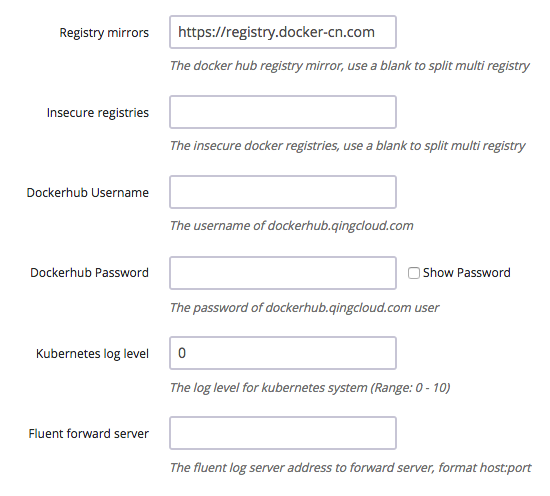
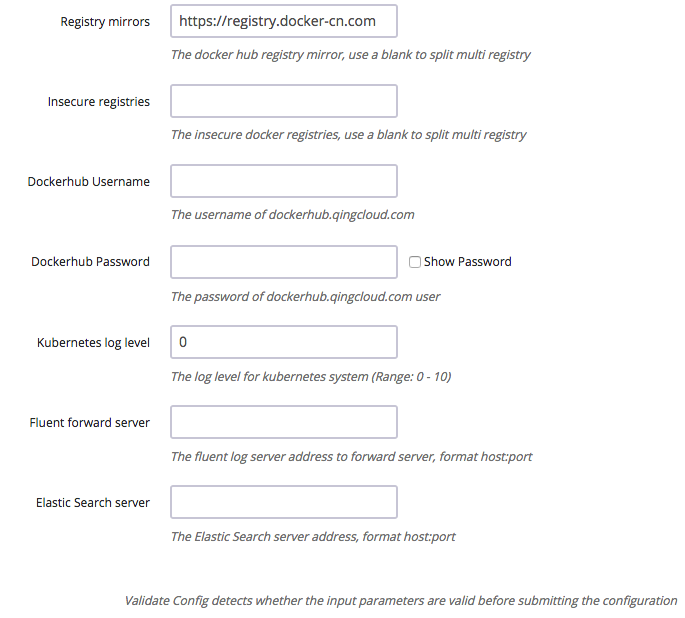
new feature of k8s app

diff --git a/docs/kubernetes/README.md b/docs/kubernetes/README.md
@@ -21,30 +21,37 @@ Kubernetes 是一个开源的、用于管理云平台中多个主机上的容器
 
 ### 第一步：选择基本配置
 
-在创建的对话框中，您需要填写名称 (可选)，选择 Kubernetes 版本号以及选择计费方式
-![](screenshot/基本配置.png)
-请根据需要选择 Kubernetes 主节点，节点和日志节点的 CPU、节点配置和数量、下图以主节点为例。所有节点的主机资源类型请保持一致，要么都是性能型，要么都是超高性能型
-![](screenshot/主节点配置.png)
-选择集群主机所在的私网，私网需要在创建集群前准备好。
-![](screenshot/网络配置.png)
-填写 Kubernetes 应用所需参数
-![](screenshot/服务环境配置.png)
+在创建的对话框中，您需要填写名称 (可选)，选择 Kubernetes 版本号以及选择计费方式。  
+![](screenshot/基本配置.png)  
+请根据需要选择 Kubernetes 主节点，节点和日志节点的 CPU、节点配置和数量、下图以主节点为例。所有节点的主机资源类型请保持一致，要么都是性能型，要么都是超高性能型。  
+![](screenshot/主节点配置.png)  
+如果用户选择不部署日志节点（节点个数为0），则需在依赖服务中选择预先部署好的 ELK 集群或者环境变量中指定自建的 Elastic Search 服务器的 IP 地址和端口。  
+![](screenshot/日志节点配置.png)  
+选择集群主机所在的私网，私网需要在创建集群前准备好。  
+![](screenshot/网络配置.png)  
+如果用户不想使用 Kubernetes App 的日志节点和内置的日志管理工具，可以预先部署 [ELK App on QingCloud](https://appcenter.qingcloud.com/apps/app-p6au3oyq)，在此处选择其为Kubernetes 集群的依赖服务。  
+<font color=red>**注意**</font>：日志节点数必须为0，ELK 集群必须和 Kubernetes 集群在同一 VPC 下。  
+![](screenshot/依赖服务配置.png)  
 
-* 为了更好地与青云基础设施集成，Kubernetes 应用需要使用您的 API 秘钥来调用 QingCloud IaaS API。请在控制台生成[秘钥](https://console.qingcloud.com/access_keys/)。
+填写 Kubernetes 应用所需参数：  
+![](screenshot/服务环境配置.png)  
 
-* Kubernetes 应用使用青云提供的 SDN2.0，创建的 Pod 都会绑定一个网卡，分配一个私网地址。这里可以设置所使用的私网 ID，私网需要预先准备好，如(vxnet-xxxxxxx)。建议给 Pod 设置专用的私网，每个私网可以容纳200多个 IP，如果您需要的容器数量较多，请填写多个，之间用空格切分。<font color=red>**Pod 的 vxnet 请不要复用 Kubernetes 所在的 vxnet，且应和 Kubernetes 集群所在的私网在同一 VPC 中**</font>。
+* 为了更好地与青云基础设施集成，Kubernetes 应用需要使用您的 API 秘钥来调用 QingCloud IaaS API。请在控制台生成[秘钥](https://console.qingcloud.com/access_keys/)。  
 
-* Kubernetes 应用内置了自定义日志监控功能，用户可以查询到所有 Kubernetes 管理的资源的日志。为了节省空间，日志会定期销毁。这里可以设置保存日志的天数
+* Kubernetes 应用使用青云提供的 SDN2.0，创建的 Pod 都会绑定一个网卡，分配一个私网地址。这里可以设置所使用的私网 ID，私网需要预先准备好，如(vxnet-xxxxxxx)。建议给 Pod 设置专用的私网，每个私网可以容纳200多个 IP，如果您需要的容器数量较多，请填写多个，之间用空格切分。<font color=red>**Pod 的 vxnet 请不要复用 Kubernetes 所在的 vxnet，且应和 Kubernetes 集群所在的私网在同一 VPC 中**</font>。  
 
-* 这里可以设置 Kubernetes API的域名，用于生成api server使用的ca证书
+* Kubernetes 应用内置了自定义日志监控功能，用户可以查询到所有 Kubernetes 管理的资源的日志。为了节省空间，日志会定期销毁。这里可以设置保存日志的天数。  
 
-![](screenshot/服务环境配置2.png)
+* 这里可以设置 Kubernetes API的域名，用于生成api server使用的ca证书。  
 
-* Registry mirrors Docker hub 官方镜像仓库的 镜像 地址，默认是 docker hub 官方提供的中国区的镜像站点。镜像仓库包含所有官方镜像仓库的所有镜像。
-* Insecure registries Kubernetes 应用支持使用私有容器仓库，方便使用内部容器仓库的用户，青云提供了[harbor应用](https://appcenter.qingcloud.com/apps/app-2mhyb1ui)可以方便用户部署私有容器仓库。如果私有容器仓库没有支持 https，需要将 registry 的 ip 地址填写在这里（如果端口是非 80 端口，也需要填写，格式 ip:port)。
-* Kubernetes 需要从 dockerhub.qingcloud.com 下载镜像，dockerhub.qingcloud.com 是青云提供给开发者的仓库服务，不包含官方镜像，这里需要用户填写 docherhub.qingcloud.com 用户名和密码用来下载镜像包含青云定制的 Kubernetes 服务镜像。系统已经内置了 guest 账号，可以拉取 dockerhub.qingcloud.com 上的公开仓库。
-* 设置 Kubernetes 系统的日志级别，之后可以通过 kibana 查看。
-* 如果用户需要自己对 Kubernetes 的日志或者容器输出的日志进行自定义处理，可以自己搭建 Fluent 或者 Fluent-bit 服务，将服务地址填写到这里，系统会自动将日志转发到填写的日志服务地址上。
+![](screenshot/服务环境配置2.png)  
+
+* Registry mirrors Docker hub 官方镜像仓库的 镜像 地址，默认是 docker hub 官方提供的中国区的镜像站点。镜像仓库包含所有官方镜像仓库的所有镜像。  
+* Insecure registries Kubernetes 应用支持使用私有容器仓库，方便使用内部容器仓库的用户，青云提供了[harbor应用](https://appcenter.qingcloud.com/apps/app-2mhyb1ui)可以方便用户部署私有容器仓库。如果私有容器仓库没有支持 https，需要将 registry 的 ip 地址填写在这里（如果端口是非 80 端口，也需要填写，格式 ip:port)。  
+* Kubernetes 需要从 dockerhub.qingcloud.com 下载镜像，dockerhub.qingcloud.com 是青云提供给开发者的仓库服务，不包含官方镜像，这里需要用户填写 docherhub.qingcloud.com 用户名和密码用来下载镜像包含青云定制的 Kubernetes 服务镜像。系统已经内置了 guest 账号，可以拉取 dockerhub.qingcloud.com 上的公开仓库。  
+* 设置 Kubernetes 系统的日志级别，之后可以通过 kibana 查看。  
+* 如果用户需要自己对 Kubernetes 的日志或者容器输出的日志进行自定义处理，可以自己搭建 Fluent 或者 Fluent-bit 服务，将服务地址填写到这里，系统会自动将日志转发到填写的日志服务地址上。  
+* 如果用户既不想使用 Kubernetes App 的日志节点和内置的日志管理工具，也不想使用青云提供的 ELK App作为依赖服务，而是用自己搭建的 ELK 或者 EFK 服务，可以通过指定 Elastic Search 服务器的 IP 地址和端口，这里要确保 Kubernetes 集群内的节点能够访问这个地址且端口有效，格式 ip:port。  
 
 ### 第二步：创建成功
 
@@ -55,8 +62,8 @@ Kubernetes 是一个开源的、用于管理云平台中多个主机上的容器
 
 ### 使用客户端节点
 
-Kubernetes 集群创建完成之后可以进行测试。找到客户端节点，点击 vnc 图标。
-![](screenshot/跳板机.png)
+Kubernetes 集群创建完成之后可以进行测试。找到客户端节点，点击 vnc 图标。  
+![](screenshot/跳板机.png)  
 使用 root/k8s 登录。执行
 
 ```shell
@@ -89,29 +96,29 @@ curl elasticsearch-logging.kube-system:9200/_cluster/health
 
 ### 通过浏览器查看集群状态
 
-Kubernetes 集群应用集成了官方的监控组件 heapster 和 dashboard。并提供了一个  elasticsearch kibana集群。方便用户查看监控和日志信息。
+Kubernetes 集群应用集成了官方的监控组件 heapster 和 dashboard。并提供了一个  elasticsearch kibana集群。方便用户查看监控和日志信息。  
 
-登录客户端节点后执行
+登录客户端节点后执行  
 
 ```shell
 nohup kubectl proxy --address='0.0.0.0' --accept-hosts='.*' --disable-filter=true --accept-paths="^.*" &
 ```
 
-连接客户端节点所在 vpc 的VPN后，使用浏览器访问 http://客户端节点ip:8001/ui，会自动跳转到dashboard应用。
-例如：
+连接客户端节点所在 vpc 的VPN后，使用浏览器访问 http://客户端节点ip:8001/ui，会自动跳转到dashboard应用。  
+例如：  
 ![](screenshot/dashboard.png)
 
-同样，访问http://客户端节点ip:8001/api/v1/proxy/namespaces/kube-system/services/kibana-logging/ 会打开日志服务的kibana
-如图
+同样，访问http://客户端节点ip:8001/api/v1/proxy/namespaces/kube-system/services/kibana-logging/ 会打开日志服务的kibana  
+如图  
 ![](screenshot/kibana.png)
 
-用户可以执行以下命令获得其他服务的proxy地址
+用户可以执行以下命令获得其他服务的proxy地址  
 
 ```shell
 kubectl cluster-info
 ```
 
-用户需要导入以下index来获取所需数据。数据都是以时间为基准，需要输入index名称的匹配模式和数据的时间戳．输入index匹配模式后，在时间戳下拉框中选择对应的字段然后点击创建即可．
+用户需要导入以下index来获取所需数据。数据都是以时间为基准，需要输入index名称的匹配模式和数据的时间戳．输入index匹配模式后，在时间戳下拉框中选择对应的字段然后点击创建即可。  
 
 | index                 | timestamp                  |
 | --------------------- | -------------------------- |
@@ -124,11 +131,11 @@ kubectl cluster-info
 
 具体配置请参考[官方文档](https://www.elastic.co/guide/en/kibana/current/discover.html)
 
-heapster的数据结构可以访问 http://客户端节点ip:8001/api/v1/proxy/namespaces/kube-system/services/elasticsearch-logging/_cat/indices 获得
+heapster的数据结构可以访问 http://客户端节点ip:8001/api/v1/proxy/namespaces/kube-system/services/elasticsearch-logging/_cat/indices 获得。  
 
-我们提供了一些预置的模板，可以在[这里](screenshot/export.json)下载
+我们提供了一些预置的模板，可以在[这里](screenshot/export.json)下载。  
 
-主要的timelion查询如下
+主要的timelion查询如下  
 
 ```Text
 .es(index='heapster-cpu-*',q="MetricsTags.type:node",split='MetricsTags.host_id:10',timefield='CpuMetricsTimestamp',kibana=true,metric="max:Metrics.cpu/node_utilization.value")
@@ -316,6 +323,7 @@ metadata:
   name: qingcloud-pvc
   annotations:
     volume.beta.kubernetes.io/storage-class: qingcloud-storageclass
+    kubernetes.io/fsType: xfs
 spec:
   accessModes:
     - ReadWriteOnce
@@ -324,7 +332,7 @@ spec:
       storage: 10Gi
 ```
 
-qingcloud-storageclass 已经在 Kubernetes on QingCloud 内置，所以不需要用户自己配置，同时 qingcloud-storageclass 是默认的 storageclass，所以 PersistentVolumeClaim 中的 annotations volume.beta.kubernetes.io/storage-class: qingcloud-storageclass，也可以省略。更完整的例子参看后面教程中的 wordpress 例子。
+qingcloud-storageclass 已经在 Kubernetes on QingCloud 内置，所以不需要用户自己配置，同时 qingcloud-storageclass 是默认的 storageclass，所以 PersistentVolumeClaim 中的 annotations volume.beta.kubernetes.io/storage-class: qingcloud-storageclass，也可以省略，使用默认的文件系统类型 ext4 则可省略 kubernetes.io/fsType 的定义。更完整的例子参看后面教程中的 wordpress 例子。
 
 默认的 qingcloud-storageclass 使用的是性能盘或者超高性能盘，取决于集群节点选择的主机的资源类型(性能型或者超高性能型)，系统会自动根据主机类型进行创建。所以有一个要求就是集群中的所有节点都必须选择一致的资源类型。
 
@@ -364,12 +372,13 @@ Kubernetes on QingCloud 容器网络使用的是 SDN Passthrough 方案，每个
 
 ## 注意事项
 
-1. VPC 的地址范围请不要选择 172.17.0.0/16 这个段，因为这个 docker 默认使用这个段，使用这个段会导致网络问题。
-2. 所有节点的主机资源类型请保持一致，要么都是性能型，要么都是超高性能型。
-3. 节点监控界面中包含当前节点运行的 pod 数量和容器数量。
-4. 由于需要调用 QingCloud IaaS API 以及拉取镜像，请确保集群所在私网能够访问公网（**VPC 绑定了公网 IP**)。
-5. 私有网络负载均衡器的 vxnet 请选择 kubernetes 集群所在的 vxnet，不要和 pod 的 vxnet 混用。
-6. 更多 Kubernetes 的使用方法请参考 [ Kubernetes 官方文档](https://kubernetes.io/docs/home/)。
+1. VPC 的地址范围请不要选择 172.17.0.0/16 这个段，因为这个 docker 默认使用这个段，使用这个段会导致网络问题。  
+2. 所有节点的主机资源类型请保持一致，要么都是性能型，要么都是超高性能型。  
+3. 节点监控界面中包含当前节点运行的 pod 数量和容器数量。  
+4. 由于需要调用 QingCloud IaaS API 以及拉取镜像，请确保集群所在私网能够访问公网（**VPC 绑定了公网 IP**)。  
+5. 私有网络负载均衡器的 vxnet 请选择 kubernetes 集群所在的 vxnet，不要和 pod 的 vxnet 混用。  
+6. 如果既部署了日志节点又依赖了外部 ELK 集群，则优先使用自带的日志服务，如果依赖了外部 ELK App 集群，又在环境变量中指定了 Elastic Search 服务器，则优先使用 ELK App 集群。  
+7. 更多 Kubernetes 的使用方法请参考 [ Kubernetes 官方文档](https://kubernetes.io/docs/home/)。  
 
 ## FAQ
 

diff --git a/docs/kubernetes/README-en-US.md b/docs/kubernetes/README-en-US.md
@@ -63,9 +63,18 @@ Please go to [Kubernetes on QingCloud AppCenter](https://appcenter.qingcloud.com
 ![](screenshot/base_config.png)  
 ![](screenshot/master_config.png)  
 
+Please add exteranl ELK app in step 7 or specify Elastic Search server address in environment setting if setting log node count to zero.  
+
+![](screenshot/log_node_config.png)  
+
 Choose the cluster VxNet for the Kubernetes. **Note:** choose cluster VxNet, not Pod VxNet. 
 
 ![](screenshot/net_config.png)  
+
+EFK service is deployed on log nodes to collect and manage log data, you could also choose to rely on [ELK App on QingCloud](https://appcenter.qingcloud.com/apps/app-p6au3oyq) outside of Kubernetes cluster.  
+**Note:** log node count should be zero, ELK cluster should be deployed at first and located in same VPC network as Kubernetes cluster.  
+
+![](screenshot/external_svc_config.png)  
 
 Specify other parameters for Kubernetes cluster. The following are some of the important parameters you need to be aware of.  
 
@@ -86,8 +95,9 @@ The following parameters are optional.
 * **Registry mirrors:** The mirror address for Docker hub registry, the default value is official docker hub mirror address for China.  
 * **Insecure registries:** The Kubernetes cluster supports private docker registry. To help end users using their own internal registry, QingCloud provides [Harbor App](https://appcenter.qingcloud.com/apps/app-2mhyb1ui), which is deployed within a few minutes. Specify corresponding IP address if the private registry doesn't support https or doesn't use 80 port(the format is ip:port).  
 * **Dockerhub Username & Password:** The Kubernetes cluster needs to pull necessary images customized by QingCloud from dockerhub.qingcloud.com, so end user needs to input user name and password of docherhub.qingcloud.com. The cluster already binds guest account to pull images on public repositories from dockerhub.qingcloud.com. Please go to QingCloud console, `Container Platform -> Docker Hub` to create your own repository.  
-* **Kubernetes log level:** Set the log level of Kubernetes cluster. You can view log through Kibana console.
-* **Fluent forward server:** Specify fluentd server address if end user wants to use her/his own log server.
+* **Kubernetes log level:** Set the log level of Kubernetes cluster. You can view log through Kibana console.  
+* **Fluent forward server:** Specify fluentd server address if end user wants to use her/his own log server.  
+* **Elastic Search server:** Specify Elastic Search server address if end user wants to use her/his own ES service, the format is ip:port, make sure the ip and port are accessible.  
 
 After deploying Kubernetes cluster, end user may check every node's status in the detailed page of the cluster. 'Healthy' under 'Service status' means this node starts successfully. Cluster's status will become to 'Active' after every node becomes healthy, which means end user can use Kubernetes services now.  
 
@@ -367,6 +377,7 @@ metadata:
   name: qingcloud-pvc
   annotations:
     volume.beta.kubernetes.io/storage-class: qingcloud-storageclass
+    kubernetes.io/fsType: xfs
 spec:
   accessModes:
     - ReadWriteOnce
@@ -375,7 +386,7 @@ spec:
       storage: 10Gi
 ```
 
-We already developed QingCloud plugin to support Kubernetes PersistentVolumeClaim. And the plugin _qingcloud-storageclass_ is integrated into the Kubernetes cluster by default, which means end users don't need any more configurations, so end users can skip setting annotations _volume.beta.kubernetes.io/storage-class: qingcloud-storageclass_ in PersistentVolumeClaim specification. Please refer to the example of wordpress below for more details.  
+We already developed QingCloud plugin to support Kubernetes PersistentVolumeClaim. And the plugin _qingcloud-storageclass_ is integrated into the Kubernetes cluster by default, which means end users don't need any more configurations, so end users can skip setting annotations _volume.beta.kubernetes.io/storage-class: qingcloud-storageclass_ in PersistentVolumeClaim specification, the default fsType is ext4, skip setting annotations _kubernetes.io/fsType_ if no customization requirement. Please refer to the example of wordpress below for more details.  
 
 qingcloud-storageclass supports high performance and super high performance volume types, which depends on the volume type of cluster nodes when deploying. The storage plugin will create corresponding volumes automatically based on the resource type of host instances. That's the reason Kubernetes App asks to use same resource type when deploying.  
 
@@ -425,7 +436,8 @@ Please find more examples related to the configuration files of QingCloud volume
 3. The number of Pods and containers are displayed on the cluster built-in node monitor section on the cluster detailed page of QingCloud console.  
 4. Make sure vxnet could access intenet for calling QingCloud IaaS API and pulling images (**Please bind EIP to VPC**).  
 5. Please use cluster vxnet just for kubernetes cluster, and use pod vxnets just for pods deployment. Don't mess them up. Also make cluster vxnet and pod vxnets in the same VPC.  
-6. Please refer to [ Kubernetes Official Document](https://kubernetes.io/docs/home/) for more usage about Kubernetes.  
+6. If end users choose to deploy log nodes and external ELK App cluster at same time by mistake, will use log nodes to manage log data by default, and if external ELK App cluster is deployed and Elastic Search server address is set at same time by mistake, will use exteral ELK App cluster by default.  
+7. Please refer to [ Kubernetes Official Document](https://kubernetes.io/docs/home/) for more usage about Kubernetes.  
 
 ----
 
